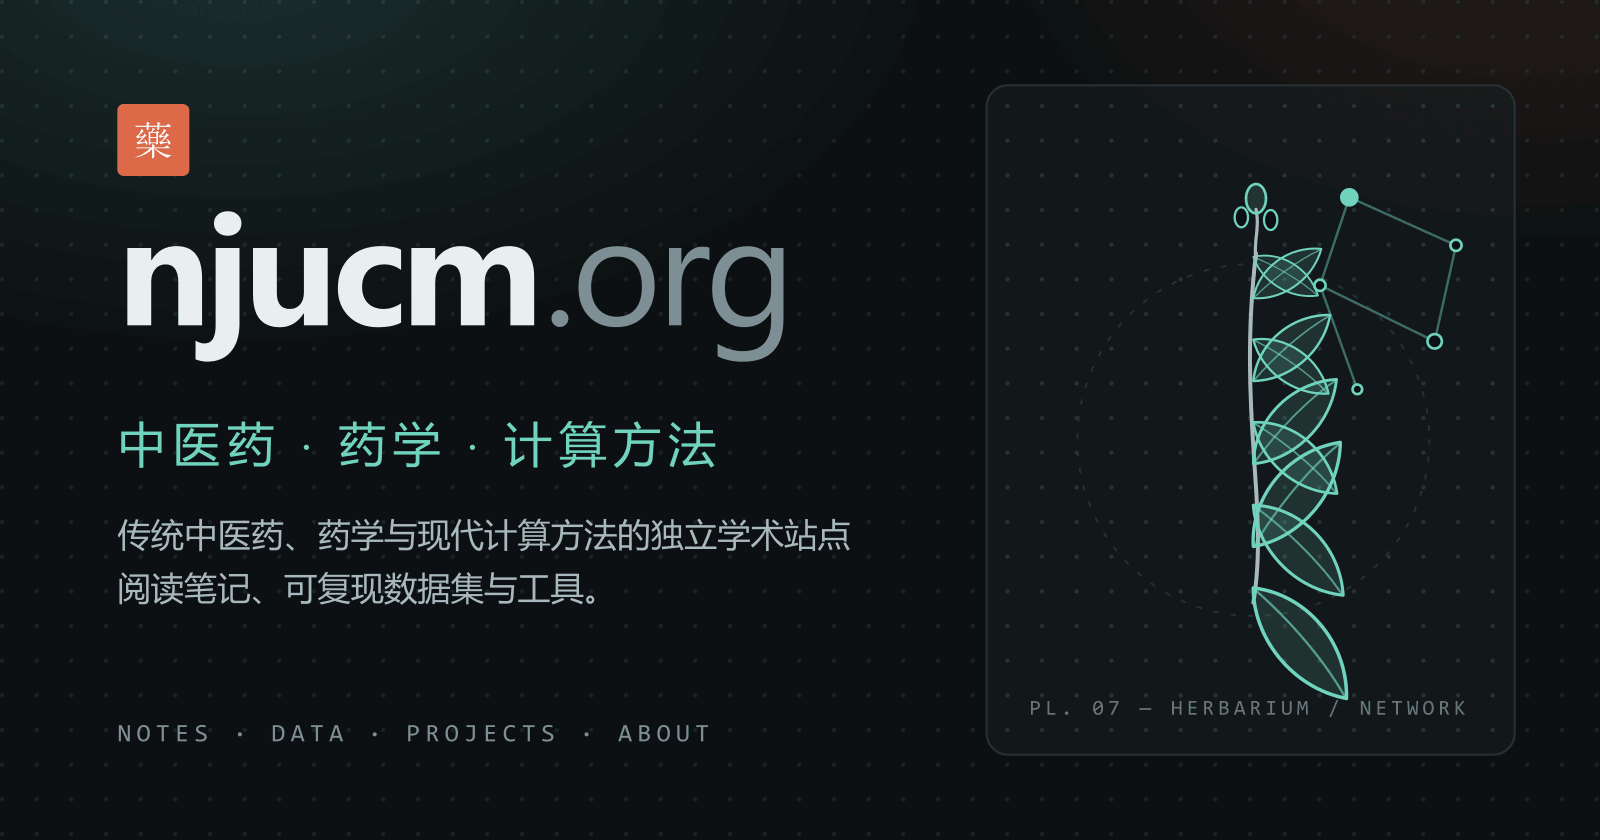
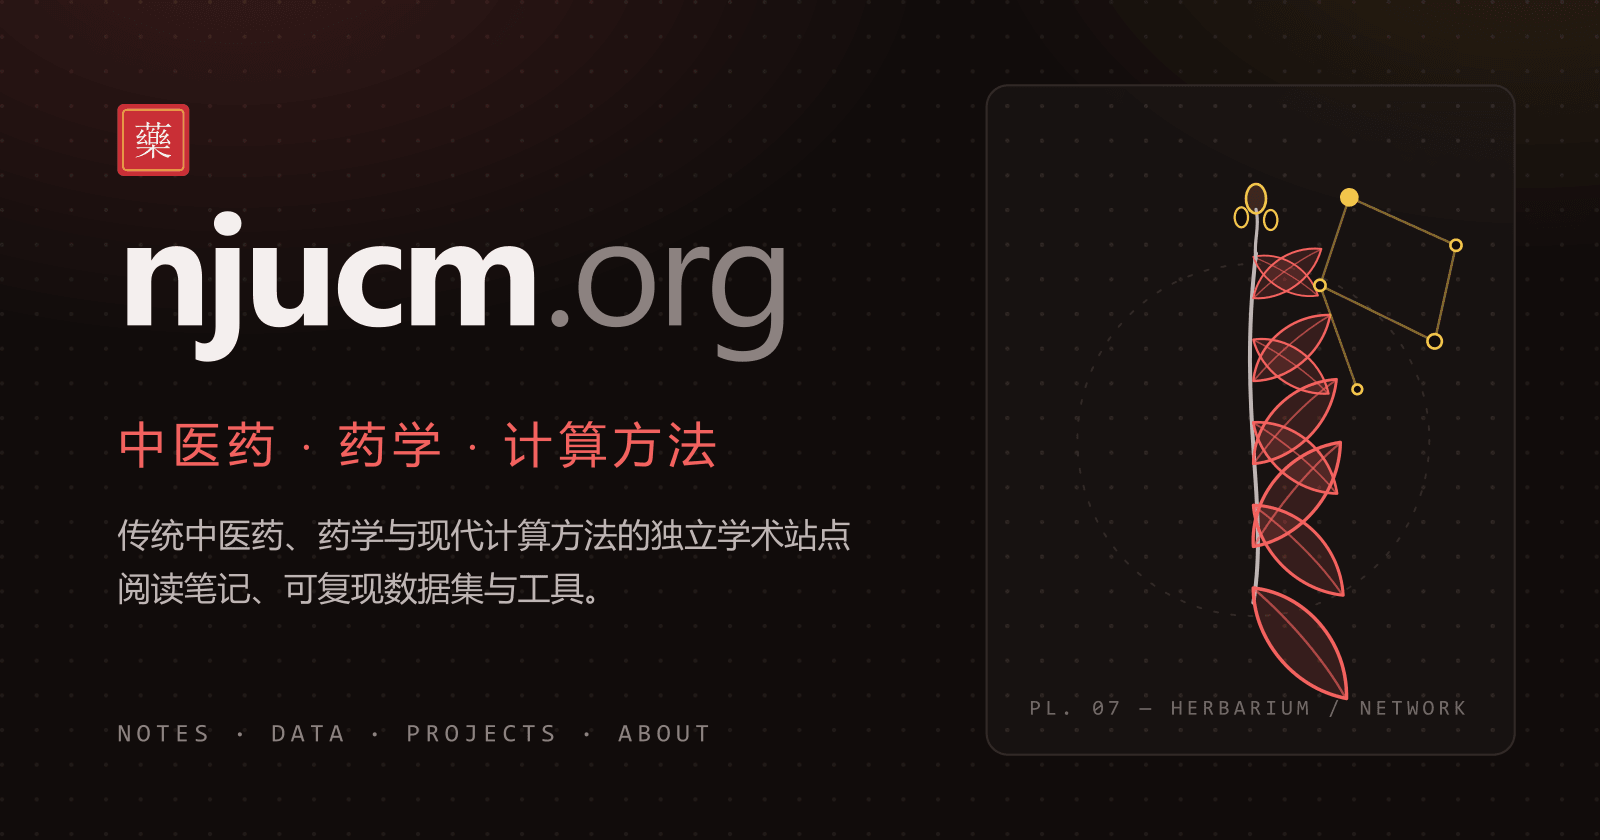
Recolour the interface in the Principality of Zeon's red and gold
The palette was ink / celadon / cinnabar. It is now ink ground with Zeon red
carrying the interface and Zeon gold as the second voice:

- --accent becomes the Principality's flag red; --accent-2 becomes the gold of
  the eagle that sits on the red field
- The ground moves from a cool cyan-black to a warm neutral in both themes, so
  the red never reads as a stray colour on a cold ground
- The database's own poster tokens follow, and the mech palettes stay as they
  are: those are product colours, not interface
- The site seal keeps white on red and gains a gold hairline frame; the hero
  plate's node network turns gold so the plate carries the same one-red
  one-gold split as the share card
- favicon and the 1200x630 share card are redrawn in the same two colours

Every pairing was measured rather than eyeballed: links on both grounds
6.2:1 and 6.9:1, body text 15-17:1, gold 5.2:1 in light and 12:1 in dark,
and the accent-ink pair on the bright dark-theme red 6.2:1.

diff --git a/src/styles/global.css b/src/styles/global.css
@@ -2,12 +2,18 @@
    njucm.org — design system v3
    --------------------------------------------------------------------------
    The subject is traditional Chinese medicine, pharmacy and computational
-   method — so the palette is drawn from the same shelf, not from a generic
-   developer-portfolio teal:
+   method — but the palette is not a generic developer-portfolio teal. It is
+   taken from the Principality of Zeon's colours: a red field, and the gold of
+   the eagle that sits on it.
 
-     墨 ink      the near-black ground (dark) / warm rice-paper (light)
-     青 celadon  the signal colour — glaze, jade, 青瓷
-     朱砂 cinnabar  the rare second voice: seal-paste red, used like a stamp
+     墨 ink        the near-black ground (dark) / warm rice-paper (light)
+     朱 zeon red   the signal colour — the Principality's flag red
+     金 zeon gold  the second voice, rationed to the places that should read
+                   as a second voice rather than as "another link"
+
+   Red carries the interface; gold is the accent. The ground is warm neutral in
+   both themes, so the red never reads as a stray colour sitting on a cold
+   ground.
 
    Architecture
      - @layer keeps the cascade predictable: reset < tokens < base < layout <
@@ -36,45 +42,42 @@
     color-scheme: dark;
 
     /* ---- 墨 · the ground ------------------------------------------------- */
-    --bg: light-dark(oklch(0.973 0.007 92), oklch(0.155 0.009 210));
-    --bg-soft: light-dark(oklch(0.944 0.009 92), oklch(0.19 0.01 210));
-    --surface: light-dark(oklch(0.994 0.003 92), oklch(0.215 0.011 210));
-    --surface-2: light-dark(oklch(0.956 0.008 92), oklch(0.255 0.012 210));
-    --surface-3: light-dark(oklch(0.918 0.01 92), oklch(0.3 0.013 210));
+    --bg: light-dark(oklch(0.972 0.007 88), oklch(0.16 0.009 25));
+    --bg-soft: light-dark(oklch(0.945 0.009 88), oklch(0.195 0.01 25));
+    --surface: light-dark(oklch(0.995 0.003 88), oklch(0.215 0.011 25));
+    --surface-2: light-dark(oklch(0.957 0.008 88), oklch(0.255 0.012 25));
+    --surface-3: light-dark(oklch(0.92 0.01 88), oklch(0.3 0.013 25));
 
-    --line: light-dark(oklch(0.884 0.008 92), oklch(0.28 0.012 210));
-    --line-strong: light-dark(oklch(0.788 0.012 92), oklch(0.372 0.014 210));
+    --line: light-dark(oklch(0.885 0.008 88), oklch(0.29 0.013 25));
+    --line-strong: light-dark(oklch(0.79 0.012 88), oklch(0.385 0.015 25));
 
     /* Dot grid, the way graph paper is actually ruled — a warmer, quieter
        ground than a blueprint grid and it never fights the type. */
-    --grid-dot: light-dark(oklch(0.36 0.02 210 / 0.1), oklch(0.8 0.02 185 / 0.09));
+    --grid-dot: light-dark(oklch(0.35 0.03 24 / 0.1), oklch(0.82 0.04 85 / 0.08));
 
     /* ---- text ----------------------------------------------------------- */
-    --text: light-dark(oklch(0.262 0.012 210), oklch(0.955 0.006 200));
-    --text-dim: light-dark(oklch(0.452 0.012 210), oklch(0.775 0.012 200));
+    --text: light-dark(oklch(0.25 0.012 25), oklch(0.955 0.005 30));
+    --text-dim: light-dark(oklch(0.45 0.012 25), oklch(0.78 0.01 30));
     /* Light-mode faint text sits on paper and on tinted chips, so it has to be
        noticeably darker than the dark-mode counterpart to clear 4.5:1. */
-    --text-faint: light-dark(oklch(0.552 0.012 210), oklch(0.605 0.013 200));
-    --text-inverse: light-dark(oklch(0.99 0 0), oklch(0.16 0.01 210));
+    --text-faint: light-dark(oklch(0.55 0.012 25), oklch(0.615 0.012 30));
+    --text-inverse: light-dark(oklch(0.99 0 0), oklch(0.16 0.009 25));
 
-    /* ---- 青 · celadon, the signal colour --------------------------------- */
-    --accent: light-dark(oklch(0.468 0.088 176), oklch(0.815 0.105 178));
-    --accent-strong: light-dark(oklch(0.398 0.09 176), oklch(0.892 0.115 178));
-    --accent-soft: light-dark(oklch(0.468 0.088 176 / 0.1), oklch(0.815 0.105 178 / 0.13));
-    --accent-line: light-dark(oklch(0.468 0.088 176 / 0.34), oklch(0.815 0.105 178 / 0.38));
-    --accent-ink: light-dark(oklch(0.99 0 0), oklch(0.17 0.028 192));
+    /* ---- 朱 · Zeon red, the signal colour --------------------------------- */
+    --accent: light-dark(oklch(0.472 0.185 28), oklch(0.68 0.18 24));
+    --accent-strong: light-dark(oklch(0.41 0.18 28), oklch(0.79 0.14 28));
+    --accent-soft: light-dark(oklch(0.472 0.185 28 / 0.1), oklch(0.68 0.18 24 / 0.14));
+    --accent-line: light-dark(oklch(0.472 0.185 28 / 0.34), oklch(0.68 0.18 24 / 0.4));
+    --accent-ink: light-dark(oklch(0.99 0 0), oklch(0.16 0.03 22));
 
-    /* ---- 朱砂 · cinnabar, the second voice ------------------------------- */
-    /* Rationed deliberately: the site seal, the wash behind the header, and
-       the "idea" tag. Nowhere else — if it shows up three times on one screen
-       it has stopped being a stamp and started being a colour. */
-    --accent-2: light-dark(oklch(0.502 0.16 32), oklch(0.715 0.165 33));
-    --accent-2-soft: light-dark(oklch(0.502 0.16 32 / 0.1), oklch(0.715 0.165 33 / 0.14));
-    --seal: light-dark(oklch(0.502 0.16 32), oklch(0.7 0.16 33));
+    /* ---- 金 · Zeon gold, the second voice -------------------------------- */
+    --accent-2: light-dark(oklch(0.52 0.115 80), oklch(0.845 0.145 88));
+    --accent-2-soft: light-dark(oklch(0.52 0.115 80 / 0.12), oklch(0.845 0.145 88 / 0.15));
+    --seal: light-dark(oklch(0.472 0.185 28), oklch(0.55 0.19 24));
 
-    --ok: light-dark(oklch(0.45 0.11 158), oklch(0.775 0.145 155));
-    --warn: light-dark(oklch(0.52 0.12 72), oklch(0.82 0.145 78));
-    --danger: light-dark(oklch(0.47 0.17 25), oklch(0.705 0.17 25));
+    --ok: light-dark(oklch(0.45 0.11 155), oklch(0.78 0.14 155));
+    --warn: light-dark(oklch(0.55 0.14 52), oklch(0.83 0.145 62));
+    --danger: light-dark(oklch(0.47 0.19 26), oklch(0.72 0.18 26));
 
     /* ---- type ------------------------------------------------------------ */
     --font-sans: -apple-system, BlinkMacSystemFont, "Segoe UI Variable Text",
@@ -160,29 +163,29 @@
      rather than invalid custom properties. */
   @supports not (color: light-dark(#000, #fff)) {
     :root {
-      --bg: #0c1012;
-      --bg-soft: #121719;
-      --surface: #182022;
-      --surface-2: #202a2c;
-      --surface-3: #2a3538;
-      --line: #263033;
-      --line-strong: #35434a;
-      --grid-dot: rgba(190, 232, 224, 0.09);
-      --text: #e9eff0;
-      --text-dim: #a8b8bc;
-      --text-faint: #7d8f94;
-      --text-inverse: #0c1012;
-      --accent: #6fd3bd;
-      --accent-strong: #96e8d6;
-      --accent-soft: rgba(111, 211, 189, 0.13);
-      --accent-line: rgba(111, 211, 189, 0.38);
-      --accent-ink: #0d2420;
-      --accent-2: #e0704f;
-      --accent-2-soft: rgba(224, 112, 79, 0.14);
-      --seal: #dc6a49;
-      --ok: #6bd6a4;
-      --warn: #e9b862;
-      --danger: #e8796f;
+      --bg: #110c0b;
+      --bg-soft: #191313;
+      --surface: #1e1817;
+      --surface-2: #282120;
+      --surface-3: #342b2a;
+      --line: #322928;
+      --line-strong: #4b4140;
+      --grid-dot: rgba(208, 195, 167, 0.08);
+      --text: #f3efee;
+      --text-dim: #beb5b4;
+      --text-faint: #8c8280;
+      --text-inverse: #110c0b;
+      --accent: #f3625f;
+      --accent-strong: #ff9587;
+      --accent-soft: rgba(243, 98, 95, 0.14);
+      --accent-line: rgba(243, 98, 95, 0.4);
+      --accent-ink: #180808;
+      --accent-2: #f3c64c;
+      --accent-2-soft: rgba(243, 198, 76, 0.15);
+      --seal: #c92f36;
+      --ok: #63d18f;
+      --warn: #ffb05b;
+      --danger: #ff6f67;
     }
   }
 }
@@ -977,7 +980,7 @@
     z-index: 1;
   }
 
-  /* 悬停时从卡片顶端漫下的一点青瓷色，像墨在纸上洇开一点——很轻，但让卡片
+  /* 悬停时从卡片顶端漫下的一点朱红，像印泥在纸上洇开一点——很轻，但让卡片
      从"有一块边框"变成"被点了一下"。用 ::after 而非 background 渐变，因为
      背景色之间的渐变无法过渡，而遮罩的不透明度可以。 */
   .card::after {

diff --git a/src/styles/gundam.css b/src/styles/gundam.css
@@ -5,7 +5,7 @@
    封面要小到能看出是"商品图"而不是插画。所以这里的网格用 14.5rem 起的一档，
    而不是正文栏目那种 19rem。
 
-   配色仍然只有站点那三样——墨、青、朱砂。机体本身的颜色来自条目数据
+   配色与站点同源——墨底、朱红为主、金为辅。机体本身的颜色来自条目数据
    （每个系列一套配色），那是"产品"，不是界面；界面本身保持克制。
    ========================================================================== */
 
@@ -860,11 +860,11 @@
 @layer tokens {
   :root {
     /* 封面的"摄影棚"底色 */
-    --gdb-ground-1: light-dark(oklch(0.975 0.005 205), oklch(0.175 0.01 210));
-    --gdb-ground-2: light-dark(oklch(0.935 0.009 205), oklch(0.225 0.013 210));
-    --gdb-dot: light-dark(oklch(0.5 0.02 210 / 0.14), oklch(0.85 0.02 190 / 0.1));
-    --gdb-mark: light-dark(oklch(0.52 0.015 210 / 0.55), oklch(0.82 0.02 200 / 0.34));
-    --gdb-ink: light-dark(oklch(0.24 0.02 210), oklch(0.15 0.02 210));
-    --gdb-badge-ink: light-dark(oklch(0.99 0 0), oklch(0.97 0.005 200));
+    --gdb-ground-1: light-dark(oklch(0.975 0.005 88), oklch(0.175 0.01 25));
+    --gdb-ground-2: light-dark(oklch(0.935 0.009 88), oklch(0.225 0.013 25));
+    --gdb-dot: light-dark(oklch(0.5 0.02 25 / 0.14), oklch(0.85 0.03 85 / 0.1));
+    --gdb-mark: light-dark(oklch(0.52 0.015 25 / 0.55), oklch(0.82 0.02 30 / 0.34));
+    --gdb-ink: light-dark(oklch(0.24 0.02 25), oklch(0.15 0.02 25));
+    --gdb-badge-ink: light-dark(oklch(0.99 0 0), oklch(0.97 0.005 30));
   }
 }
